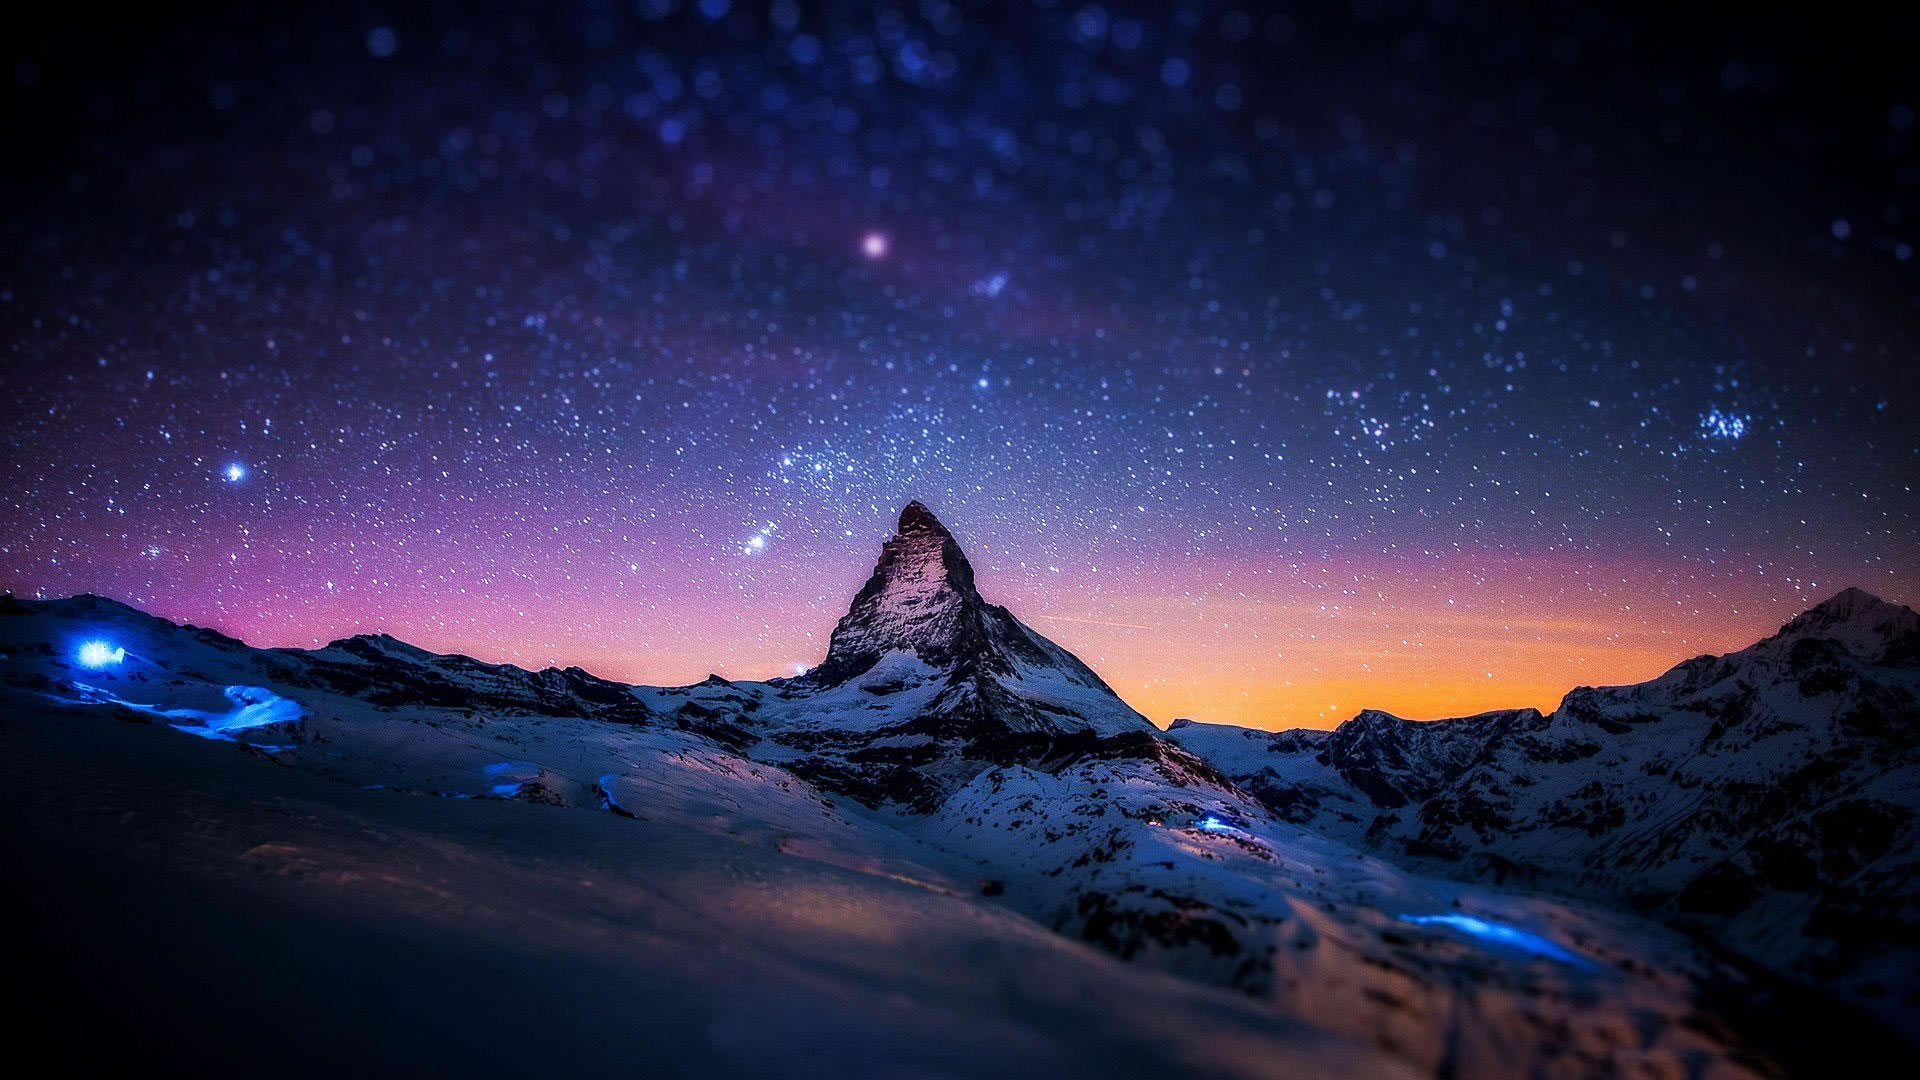
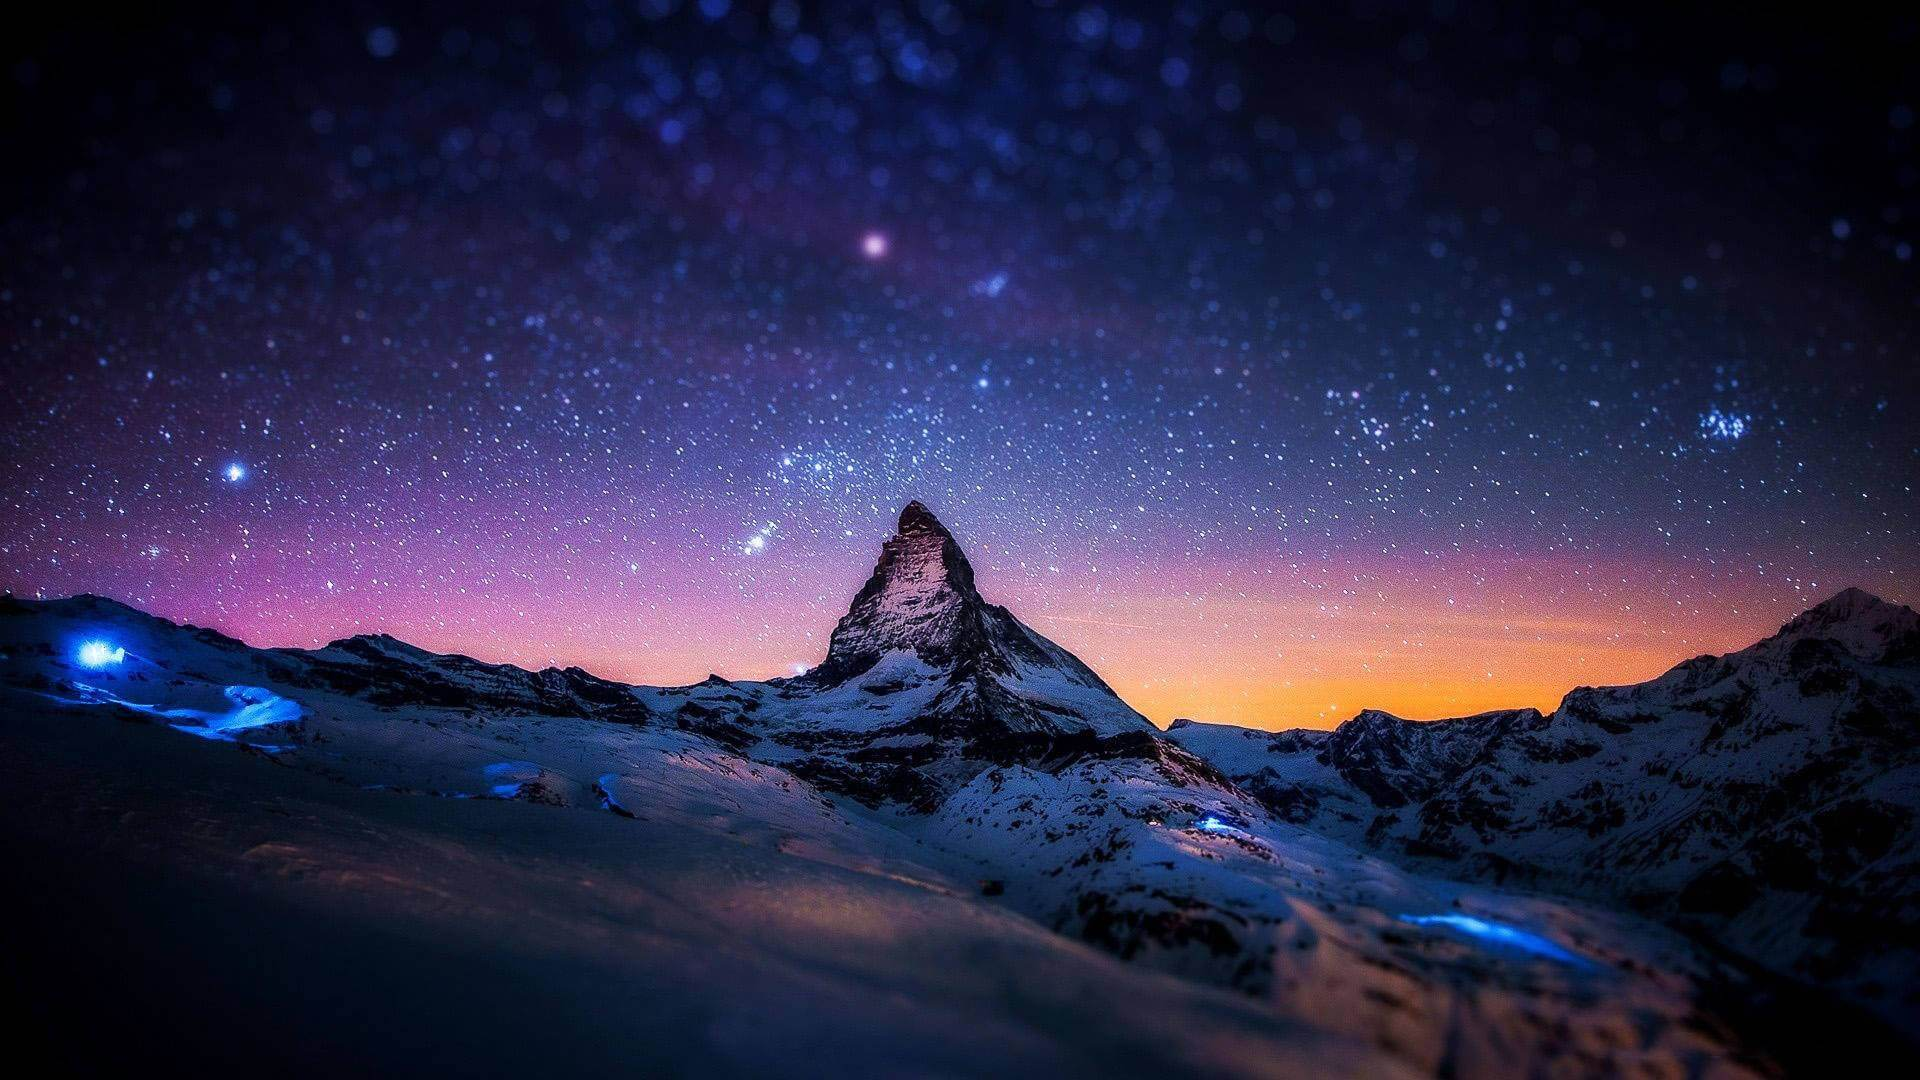
compress login_bg

Changed region(s): [[0.4062, 0.4278, 0.4375, 0.4583]]

diff --git a/src/components/Login.vue b/src/components/Login.vue
@@ -123,16 +123,13 @@ export default {
 </script>
 
 <style lang="less">
-body {
-  background: url(../assets/login_bg.jpg) fixed center center;
-}
-
 .login {
   width: 100%;
   height: 100%;
   display: flex;
   justify-content: center;
   align-items: center;
+  background: url(../assets/login_bg.jpg) fixed center center;
 
   .login-box{
     width: 440px;
